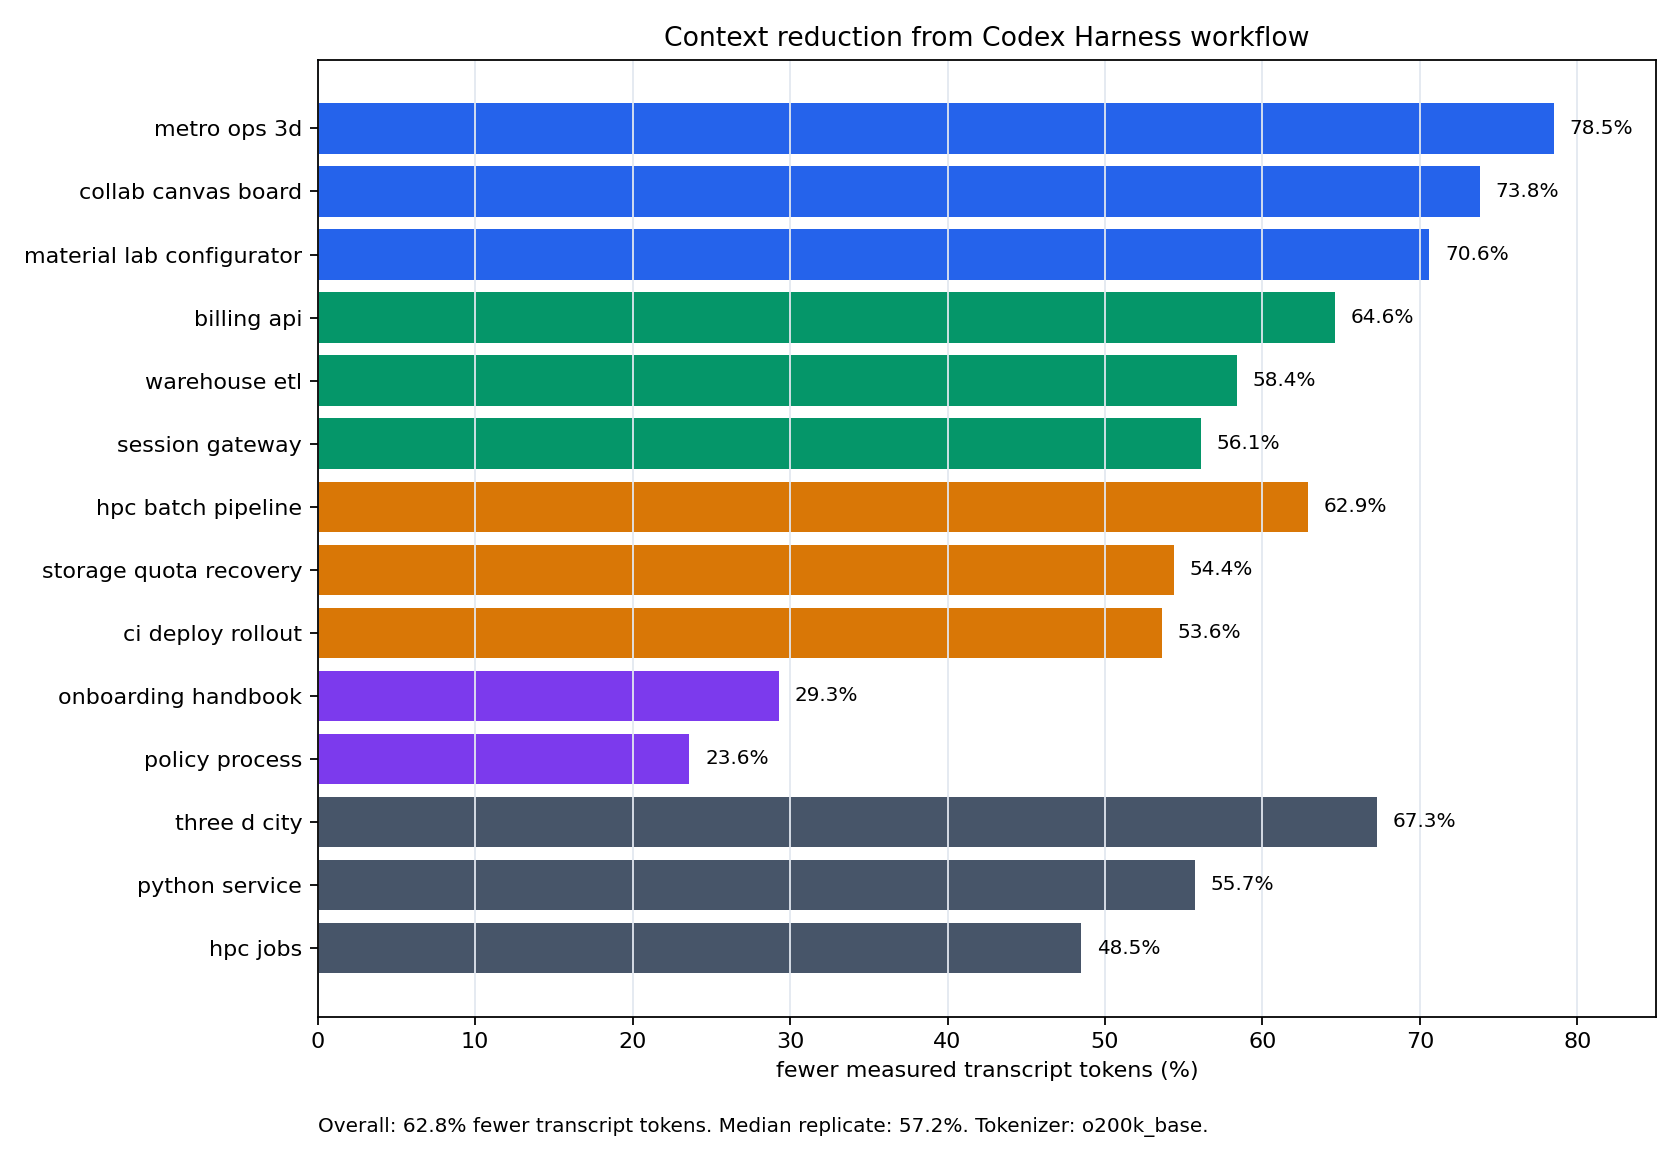
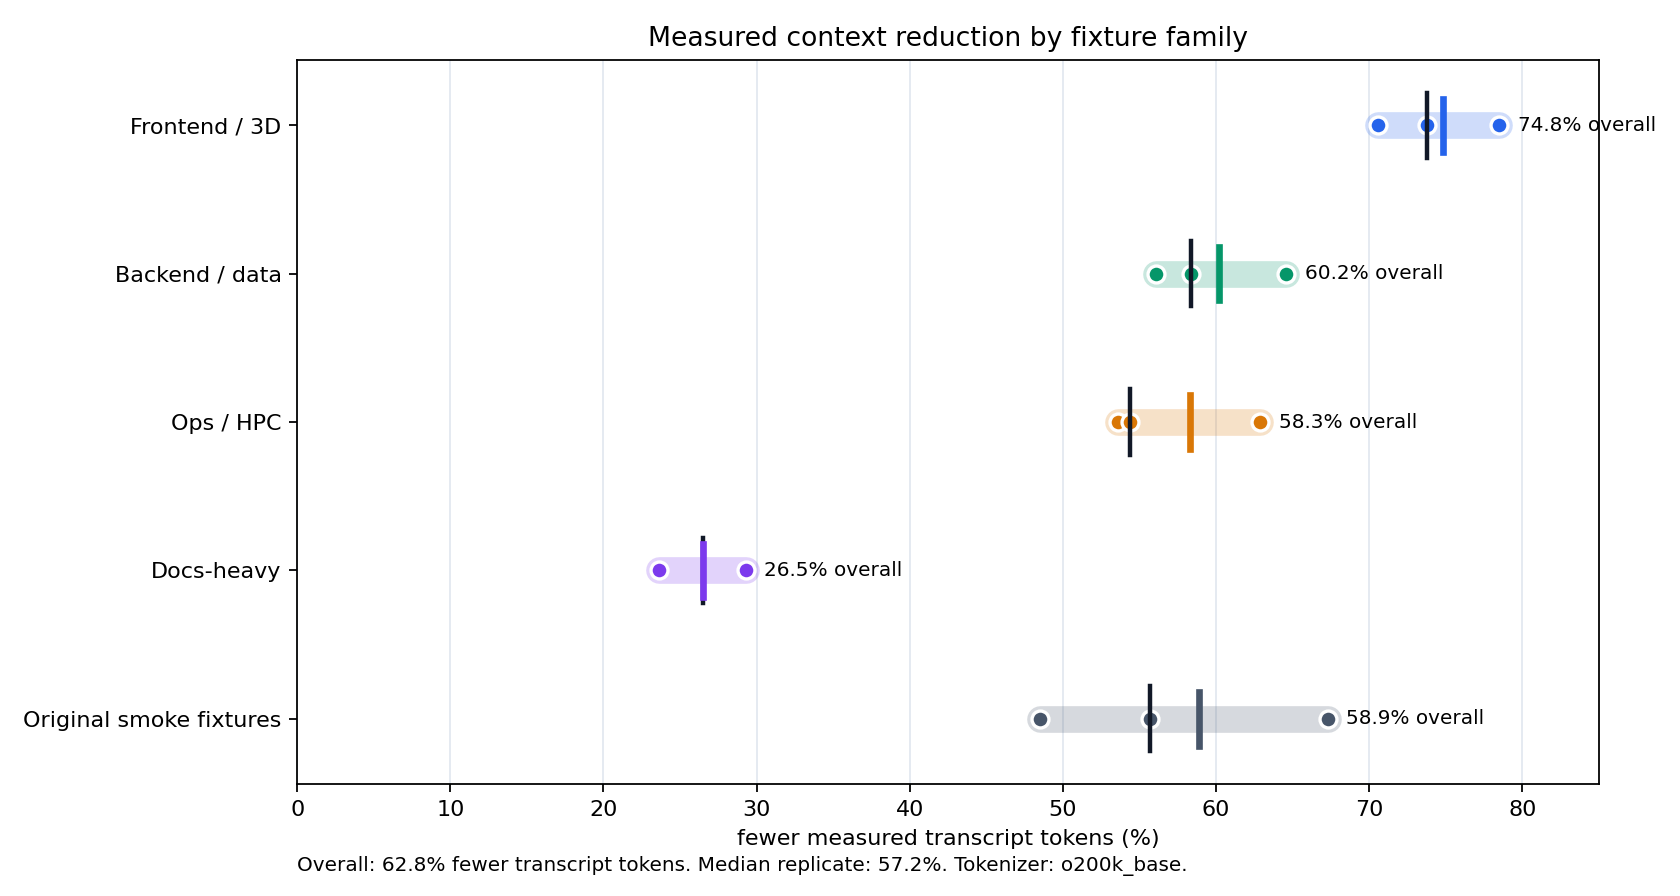
Polish README safety and experiment chart

diff --git a/experiments/context_size/run_experiment.py b/experiments/context_size/run_experiment.py
@@ -307,56 +307,71 @@ def write_family_summary(rows: list[dict[str, object]], path: Path) -> None:
 
 
 def write_reduction_svg(rows: list[dict[str, object]], path: Path) -> None:
-    ordered_rows: list[dict[str, object]] = []
-    for family in FAMILY_ORDER:
-        grouped = [row for row in rows if row["family"] == family]
-        ordered_rows.extend(sorted(grouped, key=lambda row: -float(row["reduction_percent"])))
-
     width = 1120
-    row_height = 34
-    header_height = 122
+    row_height = 72
+    header_height = 128
     footer_height = 76
-    height = header_height + row_height * len(ordered_rows) + footer_height
-    label_x = 270
-    plot_x = 285
-    plot_width = 690
+    height = header_height + row_height * len(FAMILY_ORDER) + footer_height
+    label_x = 230
+    plot_x = 255
+    plot_width = 700
     max_percent = 85
     total_baseline = sum(int(row["baseline_tokens"]) for row in rows)
     total_harness = sum(int(row["harness_tokens"]) for row in rows)
     overall = (1 - total_harness / total_baseline) * 100
     median = statistics.median(float(row["reduction_percent"]) for row in rows)
+    summaries = {summary["family"]: summary for summary in family_summaries(rows)}
     parts = [
         f'<svg xmlns="http://www.w3.org/2000/svg" width="{width}" height="{height}" viewBox="0 0 {width} {height}">',
         '<rect width="100%" height="100%" rx="0" fill="#f8fafc"/>',
-        '<text x="28" y="40" font-family="Arial, sans-serif" font-size="23" font-weight="700" fill="#0f172a">Context reduction from Codex Harness workflow</text>',
-        f'<text x="28" y="68" font-family="Arial, sans-serif" font-size="13" fill="#475569">14 replicated fixtures, tokenizer={TOKENIZER} via tiktoken. Bars show fewer transcript tokens with RTK-style summaries + Graphify-style structure.</text>',
-        f'<text x="28" y="104" font-family="Arial, sans-serif" font-size="24" font-weight="700" fill="#0f172a">{overall:.1f}%</text>',
-        '<text x="106" y="104" font-family="Arial, sans-serif" font-size="13" fill="#475569">overall reduction</text>',
-        f'<text x="252" y="104" font-family="Arial, sans-serif" font-size="24" font-weight="700" fill="#0f172a">{median:.1f}%</text>',
-        '<text x="330" y="104" font-family="Arial, sans-serif" font-size="13" fill="#475569">median replicate reduction</text>',
+        '<text x="28" y="38" font-family="Arial, sans-serif" font-size="24" font-weight="700" fill="#0f172a">Measured context reduction by fixture family</text>',
+        f'<text x="28" y="66" font-family="Arial, sans-serif" font-size="13" fill="#475569">14 fixture repositories. Dots are individual replicates; thick bars show each family range; black ticks show family medians. Tokenizer={TOKENIZER}.</text>',
+        f'<text x="28" y="106" font-family="Arial, sans-serif" font-size="26" font-weight="700" fill="#0f172a">{overall:.1f}%</text>',
+        '<text x="112" y="106" font-family="Arial, sans-serif" font-size="13" fill="#475569">overall fewer transcript tokens</text>',
+        f'<text x="326" y="106" font-family="Arial, sans-serif" font-size="26" font-weight="700" fill="#0f172a">{median:.1f}%</text>',
+        '<text x="410" y="106" font-family="Arial, sans-serif" font-size="13" fill="#475569">median replicate reduction</text>',
     ]
     for tick in range(0, 81, 20):
         x = plot_x + (tick / max_percent) * plot_width
-        parts.append(f'<line x1="{x:.1f}" y1="{header_height - 8}" x2="{x:.1f}" y2="{height - footer_height + 8}" stroke="#e2e8f0"/>')
+        parts.append(f'<line x1="{x:.1f}" y1="{header_height - 12}" x2="{x:.1f}" y2="{height - footer_height + 10}" stroke="#e2e8f0"/>')
         parts.append(f'<text x="{x:.1f}" y="{height - footer_height + 34}" text-anchor="middle" font-family="Arial, sans-serif" font-size="11" fill="#64748b">{tick}%</text>')
 
-    y = header_height
-    current_family = None
-    for row in ordered_rows:
-        family = str(row["family"])
-        if family != current_family:
-            current_family = family
-            parts.append(f'<text x="28" y="{y + 20}" font-family="Arial, sans-serif" font-size="13" font-weight="700" fill="{FAMILY_COLORS[family]}">{family}</text>')
-        reduction = float(row["reduction_percent"])
-        bar_width = (reduction / max_percent) * plot_width
-        bar_y = y + 7
+    for index, family in enumerate(FAMILY_ORDER):
+        grouped = sorted([row for row in rows if row["family"] == family], key=lambda row: float(row["reduction_percent"]))
+        if not grouped:
+            continue
+        summary = summaries[family]
         color = FAMILY_COLORS[family]
-        parts.append(f'<text x="{label_x}" y="{y + 21}" text-anchor="end" font-family="Arial, sans-serif" font-size="12" fill="#334155">{row["label"]}</text>')
-        parts.append(f'<rect x="{plot_x}" y="{bar_y}" width="{bar_width:.1f}" height="20" rx="5" fill="{color}"/>')
-        parts.append(f'<text x="{plot_x + bar_width + 8:.1f}" y="{y + 22}" font-family="Arial, sans-serif" font-size="12" font-weight="700" fill="#0f172a">{reduction:.1f}%</text>')
-        y += row_height
+        y = header_height + index * row_height
+        center_y = y + 34
+        min_reduction = float(summary["min_reduction_percent"])
+        max_reduction = float(summary["max_reduction_percent"])
+        median_reduction = float(summary["median_reduction_percent"])
+        overall_reduction = float(summary["overall_reduction_percent"])
+        x_min = plot_x + (min_reduction / max_percent) * plot_width
+        x_max = plot_x + (max_reduction / max_percent) * plot_width
+        x_median = plot_x + (median_reduction / max_percent) * plot_width
+        x_overall = plot_x + (overall_reduction / max_percent) * plot_width
+        parts.append(f'<text x="28" y="{center_y - 8}" font-family="Arial, sans-serif" font-size="15" font-weight="700" fill="{color}">{family}</text>')
+        parts.append(f'<text x="28" y="{center_y + 12}" font-family="Arial, sans-serif" font-size="11" fill="#64748b">{summary["replicates"]} replicates</text>')
+        parts.append(f'<line x1="{x_min:.1f}" y1="{center_y}" x2="{x_max:.1f}" y2="{center_y}" stroke="{color}" stroke-width="14" stroke-linecap="round" opacity="0.22"/>')
+        parts.append(f'<line x1="{x_overall:.1f}" y1="{center_y - 15}" x2="{x_overall:.1f}" y2="{center_y + 15}" stroke="{color}" stroke-width="3" opacity="0.95"/>')
+        parts.append(f'<line x1="{x_median:.1f}" y1="{center_y - 17}" x2="{x_median:.1f}" y2="{center_y + 17}" stroke="#111827" stroke-width="2"/>')
+        for dot_index, row in enumerate(grouped):
+            reduction = float(row["reduction_percent"])
+            x = plot_x + (reduction / max_percent) * plot_width
+            offset = (dot_index - (len(grouped) - 1) / 2) * 7
+            parts.append(f'<circle cx="{x:.1f}" cy="{center_y + offset:.1f}" r="5.2" fill="{color}" stroke="#ffffff" stroke-width="1.7"/>')
+        parts.append(f'<text x="{plot_x + plot_width + 18}" y="{center_y - 6}" font-family="Arial, sans-serif" font-size="12" font-weight="700" fill="#0f172a">{overall_reduction:.1f}% overall</text>')
+        parts.append(f'<text x="{plot_x + plot_width + 18}" y="{center_y + 12}" font-family="Arial, sans-serif" font-size="11" fill="#64748b">range {min_reduction:.1f}-{max_reduction:.1f}%</text>')
     parts.extend([
-        f'<text x="{plot_x}" y="{height - 18}" font-family="Arial, sans-serif" font-size="12" fill="#64748b">Measured on generated context-gathering transcripts, not private Codex billing telemetry.</text>',
+        f'<line x1="{plot_x}" y1="{height - 42}" x2="{plot_x + 22}" y2="{height - 42}" stroke="#111827" stroke-width="2"/>',
+        f'<text x="{plot_x + 30}" y="{height - 38}" font-family="Arial, sans-serif" font-size="11" fill="#64748b">median</text>',
+        f'<line x1="{plot_x + 100}" y1="{height - 42}" x2="{plot_x + 100}" y2="{height - 20}" stroke="#2563eb" stroke-width="3"/>',
+        f'<text x="{plot_x + 110}" y="{height - 38}" font-family="Arial, sans-serif" font-size="11" fill="#64748b">family overall</text>',
+        f'<circle cx="{plot_x + 235}" cy="{height - 42}" r="5.2" fill="#2563eb" stroke="#ffffff" stroke-width="1.7"/>',
+        f'<text x="{plot_x + 247}" y="{height - 38}" font-family="Arial, sans-serif" font-size="11" fill="#64748b">replicate</text>',
+        f'<text x="{plot_x}" y="{height - 16}" font-family="Arial, sans-serif" font-size="11" fill="#64748b">Measured on generated context-gathering transcripts, not private Codex billing telemetry.</text>',
         "</svg>",
     ])
     path.write_text("\n".join(parts) + "\n", encoding="utf-8")
@@ -368,26 +383,34 @@ def write_png_if_possible(rows: list[dict[str, object]], path: Path) -> bool:
     except Exception:
         return False
 
-    ordered_rows: list[dict[str, object]] = []
-    for family in FAMILY_ORDER:
-        ordered_rows.extend(sorted([row for row in rows if row["family"] == family], key=lambda row: -float(row["reduction_percent"])))
-    labels = [str(row["label"]) for row in ordered_rows]
-    reductions = [float(row["reduction_percent"]) for row in ordered_rows]
-    colors = [FAMILY_COLORS[str(row["family"])] for row in ordered_rows]
-
-    fig, ax = plt.subplots(figsize=(10.5, 7.2))
-    ax.barh(labels, reductions, color=colors)
+    summaries = {summary["family"]: summary for summary in family_summaries(rows)}
+    fig, ax = plt.subplots(figsize=(10.5, 5.6))
+    y_positions = list(range(len(FAMILY_ORDER)))
+    for y_pos, family in zip(y_positions, FAMILY_ORDER):
+        grouped = [row for row in rows if row["family"] == family]
+        if not grouped:
+            continue
+        summary = summaries[family]
+        color = FAMILY_COLORS[family]
+        min_reduction = float(summary["min_reduction_percent"])
+        max_reduction = float(summary["max_reduction_percent"])
+        median_reduction = float(summary["median_reduction_percent"])
+        overall_reduction = float(summary["overall_reduction_percent"])
+        ax.plot([min_reduction, max_reduction], [y_pos, y_pos], color=color, linewidth=12, alpha=0.22, solid_capstyle="round")
+        ax.scatter([float(row["reduction_percent"]) for row in grouped], [y_pos] * len(grouped), color=color, edgecolors="white", linewidths=1.5, s=58, zorder=3)
+        ax.plot([median_reduction, median_reduction], [y_pos - 0.22, y_pos + 0.22], color="#111827", linewidth=2, zorder=4)
+        ax.plot([overall_reduction, overall_reduction], [y_pos - 0.18, y_pos + 0.18], color=color, linewidth=3, zorder=4)
+        ax.text(max_reduction + 1.2, y_pos, f"{overall_reduction:.1f}% overall", va="center", fontsize=9)
+    ax.set_yticks(y_positions, FAMILY_ORDER)
     ax.invert_yaxis()
-    ax.set_title("Context reduction from Codex Harness workflow")
+    ax.set_title("Measured context reduction by fixture family")
     ax.set_xlabel("fewer measured transcript tokens (%)")
     ax.set_xlim(0, 85)
     ax.grid(axis="x", color="#e2e8f0")
-    for y_pos, value in enumerate(reductions):
-        ax.text(value + 1, y_pos, f"{value:.1f}%", va="center", fontsize=9)
     total_baseline = sum(int(row["baseline_tokens"]) for row in rows)
     total_harness = sum(int(row["harness_tokens"]) for row in rows)
     overall = (1 - total_harness / total_baseline) * 100
-    median = statistics.median(reductions)
+    median = statistics.median(float(row["reduction_percent"]) for row in rows)
     ax.text(0.0, -0.12, f"Overall: {overall:.1f}% fewer transcript tokens. Median replicate: {median:.1f}%. Tokenizer: {TOKENIZER}.", transform=ax.transAxes, fontsize=9)
     fig.tight_layout()
     fig.savefig(path, dpi=160)

diff --git a/README.md b/README.md
@@ -4,10 +4,26 @@
 
 This repo has two jobs:
 
-1. **Learn Codex:** what Codex is, how to use the CLI and app, how instructions work, and how to think about skills, MCP, plugins, and subagents.
-2. **Install the harness:** set up RTK and Graphify so Codex can understand repositories with less noisy context and with a clear rollback path.
+1. **Learn Codex:** what it is, how to use it, and what common words like skills, MCP, plugins, and subagents mean.
+2. **Install the harness:** set up RTK and Graphify so Codex can inspect repositories with less noisy context and a clear rollback path.
 
-The repo is written for people who may be comfortable using a computer but are not yet comfortable with developer tooling, shells, configuration files, or AI agent vocabulary.
+This repo is written for people who may be comfortable using a computer but are still new to developer tools, terminals, configuration files, or AI agent vocabulary.
+
+## Safety First
+
+Codex is useful because it can read files, edit files, and run commands for you. Those same abilities mean you should give it a safe place to work.
+
+If you are new, the most practical default is usually:
+
+- work inside a Git repository
+- keep raw, private, or irreplaceable data outside that repository
+- commit or stash work before large changes
+- start with normal sandbox/approval settings
+- read approval prompts before allowing commands that write outside the project
+
+On Windows, WSL2 is often the easiest and safest way to use terminal-based developer tools. It gives you a Linux environment with a clearer boundary than running everything directly in your personal Windows folders. It is not magic protection, but it makes the workflow closer to what most developer tooling expects.
+
+Git reduces risk because you can inspect diffs and roll back tracked code. It does not protect files that are not tracked, and it does not replace backups. There is always a small risk that any automation, including an AI agent, can damage files if it is pointed at the wrong directory or given too much permission. The balance we want is practical: let Codex help with code and docs, but do not put the only copy of raw data, credentials, or important personal files in its work area.
 
 ## Start Here
 
@@ -30,9 +46,9 @@ flowchart LR
 
 ## Part 1: Learn Codex
 
-Codex is a coding agent: you give it a software task, and it can inspect files, edit code, run commands, explain tradeoffs, and help verify the result.
+Codex is a coding assistant that can act on a repository. You give it a task, and it can inspect files, edit code, run commands, explain choices, and help check whether the result works.
 
-You do not need to understand every internal term before using it. Start with the basic loop:
+You do not need to learn every term before using it. Start with this loop:
 
 1. Open a repository.
 2. Explain the goal and constraints.
@@ -43,13 +59,13 @@ You do not need to understand every internal term before using it. Start with th
 
 | Beginner topic | Plain meaning | Guide |
 | --- | --- | --- |
-| Codex CLI | Codex in your terminal, working on local files. | [Codex CLI](docs/codex-cli.md) |
-| Codex app/cloud | Codex working through the app or cloud task flow. | [Codex App and Cloud](docs/codex-app-cloud.md) |
-| `AGENTS.md` | A note to Codex explaining how this repo works. | [Settings](docs/settings.md) |
+| Codex CLI | Codex running in a terminal on your machine. | [Codex CLI](docs/codex-cli.md) |
+| Codex app/cloud | Codex working through an app or remote task flow. | [Codex App and Cloud](docs/codex-app-cloud.md) |
+| `AGENTS.md` | A note that tells Codex how this repo should be handled. | [Settings](docs/settings.md) |
 | Skills | Reusable instructions for repeatable work. | [Concepts](docs/concepts.md) |
-| MCP | A standard way for tools and data sources to connect to Codex. | [Concepts](docs/concepts.md) |
+| MCP | A way to connect Codex to extra tools and data sources. | [Concepts](docs/concepts.md) |
 | Plugins | Bundled integrations that may provide skills, tools, or connectors. | [Concepts](docs/concepts.md) |
-| Subagents | Extra agents working on separate tasks in parallel. | [Prompt Examples](docs/prompts.md) |
+| Subagents | Extra agents that can work on separate tasks in parallel. | [Prompt Examples](docs/prompts.md) |
 | Approvals/sandboxing | Safety controls for commands, files, and network access. | [Settings](docs/settings.md) |
 
 ### A Good First Prompt
@@ -71,7 +87,7 @@ Do not include secrets or private paths.
 
 ## Part 2: Install the Harness
 
-This repo is for people who want to:
+The harness part is for people who want Codex to spend less time reading noisy command output and repeatedly scanning the same files.
 
 | Need | Where to go |
 | --- | --- |
@@ -88,8 +104,8 @@ This repo is for people who want to:
 
 | Component | What it does |
 | --- | --- |
-| RTK | Wraps noisy commands such as `git`, `grep`, `find`, and tests so Codex sees compact, readable output. |
-| Graphify | Builds repository maps under `graphify-out/` so Codex can start from a graph report instead of repeatedly scanning files. |
+| RTK | Makes noisy command output shorter and easier for Codex to read. |
+| Graphify | Builds a repository map so Codex can start from structure instead of guessing where to look. |
 | Codex instructions | Adds reusable guidance in `AGENTS.md` and RTK docs so Codex knows when to use RTK and Graphify. |
 | Rollback manifest | Records touched files and backups in `manifests/changes.json` and `state/backups/`. |
 
@@ -134,9 +150,9 @@ Recommended harness reading path:
 
 ## RTK + Graphify Mental Model
 
-Codex spends context on whatever you show it. Huge command output and repeated file scans waste that context.
+Codex has a limited working memory for each task. Huge command output and repeated file scans use that memory quickly.
 
-RTK helps by making commands produce summarized, model-readable output. Graphify helps by giving Codex a repository map before it opens raw files.
+RTK helps by making command output shorter. Graphify helps by giving Codex a map of the repository before it opens raw files.
 
 Use this default pattern in activated repositories:
 
@@ -156,26 +172,28 @@ Read graphify-out/GRAPH_REPORT.md first, then inspect only the files needed for 
 
 ## Measured Context Reduction
 
-We tested the harness idea with a reproducible experiment in [experiments/context_size](experiments/context_size/README.md). Four independent work streams created fixture codebases across frontend/3D, backend, ops/HPC, and docs-heavy tasks. The experiment compares two transcripts for each fixture:
+We tested the harness idea with a reproducible experiment in [experiments/context_size](experiments/context_size/README.md). The question was simple: if Codex starts from compact summaries and a repository map, how much less text does it need to read before it knows where to work?
+
+Four independent work streams created small fixture repositories across frontend/3D, backend, ops/HPC, and docs-heavy tasks. For each fixture, the script generates two text transcripts:
 
 | Workflow | What it simulates |
 | --- | --- |
-| Without harness | Raw recursive file listing, broad text search, and full text scans. |
-| With harness | RTK-style summaries plus a Graphify-style structural report before opening raw files. |
+| Without harness | A naive first pass: list many files, search broadly, and read full text. |
+| With harness | A guided first pass: compact command summaries plus a repository-structure report. |
 
-The experiment counts actual transcript tokens with `tiktoken` using the `o200k_base` tokenizer. It does not use private Codex telemetry and it does not measure billing tokens, accuracy, or elapsed time. It measures the amount of transcript text a Codex-like model would need to read for these controlled context-gathering workflows.
+The experiment counts actual transcript tokens with `tiktoken` using the `o200k_base` tokenizer. It does not use private Codex telemetry and it does not measure billing tokens, accuracy, or elapsed time. It measures the amount of text a Codex-like model would need to read in this controlled first-pass workflow.
 
 ![Context reduction by fixture family](experiments/context_size/results/context_reduction_by_family.svg)
 
 Across 14 fixtures, the harness-style transcript reduced measured tokens from 27,541 to 10,254 total tokens: **62.8% fewer measured transcript tokens overall**. The median per-fixture reduction was **57.2%**, with a range from **23.6%** on documentation-heavy fixtures to **78.5%** on the largest frontend/3D fixture.
 
-Design summary:
+Experiment design:
 
 - 14 fixtures across five families: frontend/3D, backend/data, ops/HPC, docs-heavy, and original smoke fixtures.
 - Frontend, backend, and ops fixtures were generated by separate agents with different task briefs; docs-heavy fixtures were added separately as a lower-code comparison group.
-- Each fixture defines a `scenario.json` search pattern so the broad search step is explicit and reproducible.
-- Baseline transcripts simulate naive broad context gathering: file listing, broad search output, and full text scans.
-- Harness transcripts simulate the intended workflow: RTK-style compact command output plus Graphify-style structure before opening raw files.
+- Each fixture defines a `scenario.json` search pattern, so the search task is explicit and reproducible.
+- The baseline transcript simulates broad manual exploration.
+- The harness transcript simulates a more disciplined workflow: summarize first, map structure second, open raw files later.
 
 Reproduce it:
 
